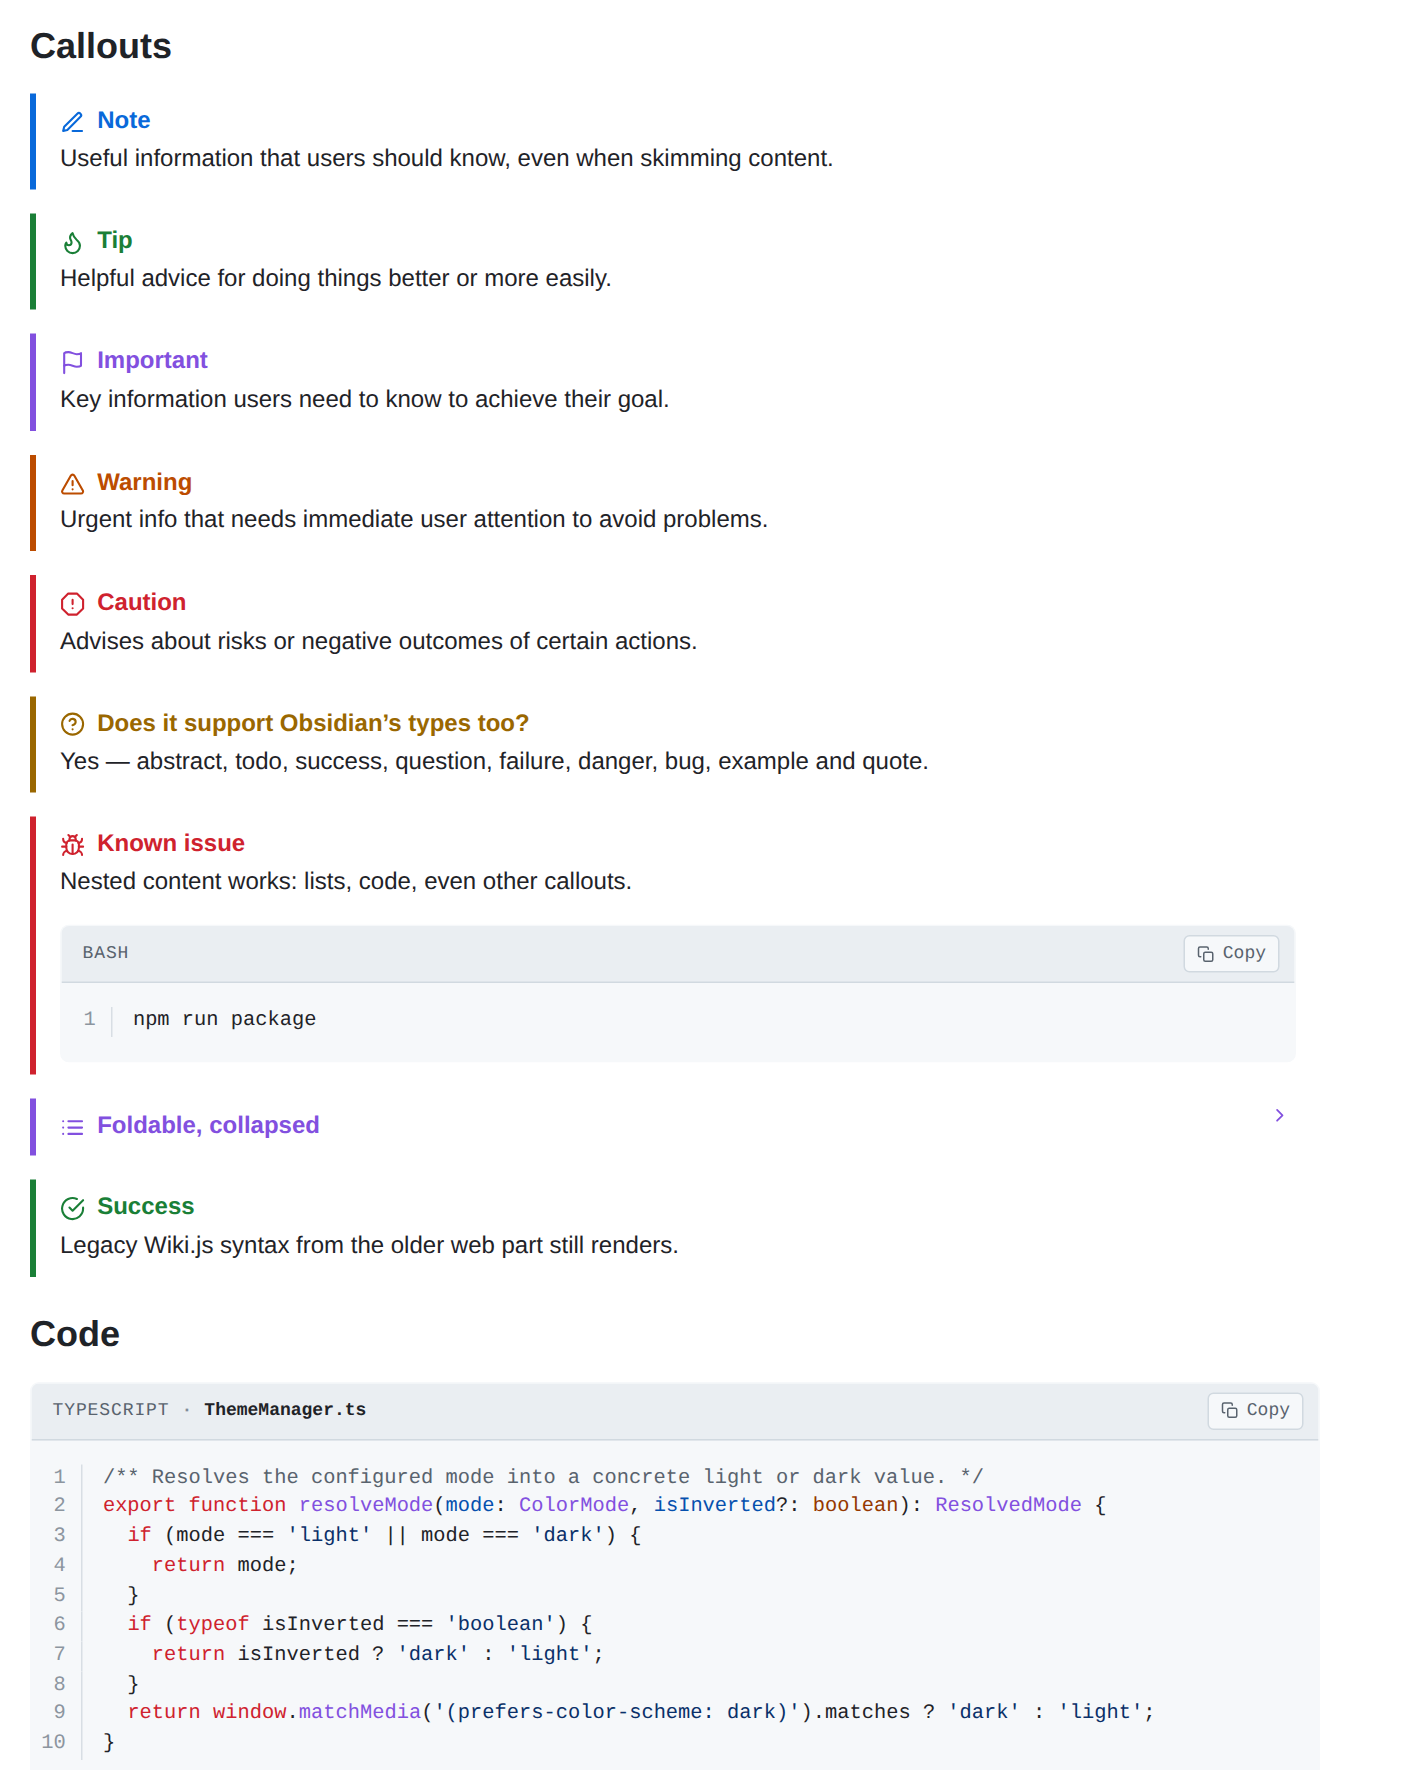
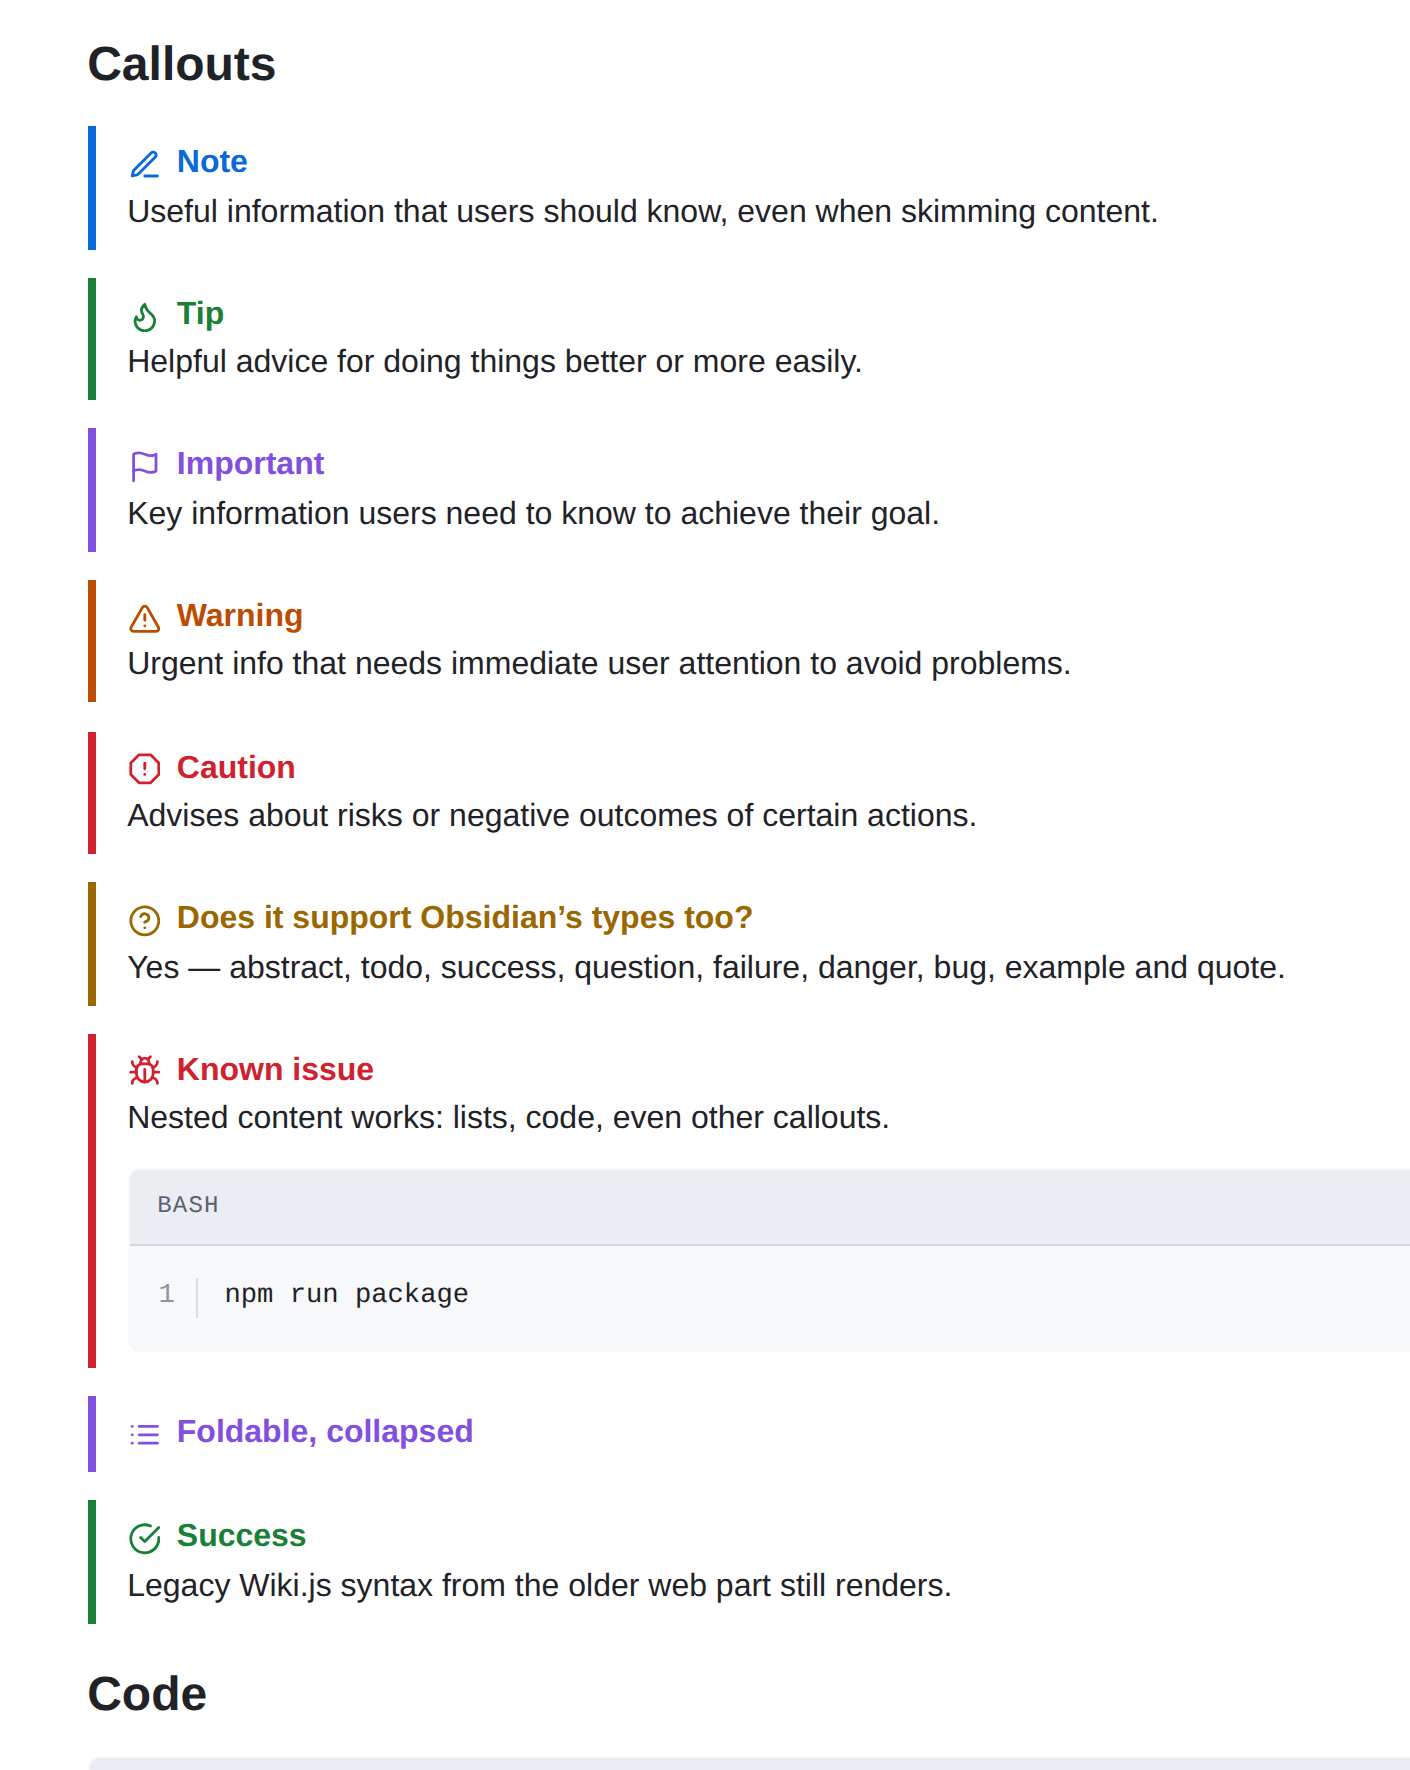
Refresh the README screenshots, and the README (#19)
Screenshots regenerated by the new scripts/build-screenshots.js, without the
white strip the hand-made dark shots carried. README checked against the code:
the install section no longer leads with a release that does not exist, the
gutter is no longer described as always sticky, and the commands, layout and
defaults are current.

diff --git a/scripts/build-screenshots.js b/scripts/build-screenshots.js
@@ -1,0 +1,127 @@
+/*
+ * Regenerates the theme screenshots in docs/images/.
+ *
+ *   node scripts/build-screenshots.js [--out <directory>]
+ *
+ * Each shot is the kitchen sink document rendered by the web part's own
+ * pipeline and stylesheets - the same build the docs site publishes - so the
+ * README shows what a SharePoint page actually shows rather than a mock-up.
+ *
+ * The capture covers the callouts and a code block, the two things the themes
+ * differ on most. The demo chrome is hidden and the padding moves onto
+ * .ink-root, which paints the theme background: anything outside it would be
+ * the page's own white, which is what put a white strip down the left of the
+ * dark shots before.
+ *
+ * Needs Playwright:
+ *   npm install --no-save playwright && npx playwright install chromium
+ */
+const fs = require('fs');
+const path = require('path');
+const { execFileSync } = require('child_process');
+
+let chromium;
+try {
+  chromium = require('playwright').chromium;
+} catch (error) {
+  console.error('Playwright is not installed. Run:\n  npm install --no-save playwright && npx playwright install chromium');
+  process.exit(1);
+}
+
+const root = path.join(__dirname, '..');
+const args = process.argv.slice(2);
+const outIndex = args.indexOf('--out');
+const outDir = path.resolve(outIndex === -1 ? path.join(root, 'docs', 'images') : args[outIndex + 1]);
+const buildDir = path.join(root, 'temp', 'screenshots');
+
+const THEMES = ['github', 'obsidian', 'vscode'];
+const MODES = ['light', 'dark'];
+const WIDTH = 705;
+const HEIGHT = 885;
+/* Where the shot starts: the heading whose section shows the callouts. */
+const ANCHOR = 'Callouts';
+
+function build() {
+  execFileSync(
+    process.execPath,
+    [path.join(root, 'demo', 'build-demo.js'), path.join(root, 'samples', 'kitchen-sink.md'),
+      '--out', buildDir],
+    { stdio: 'inherit', cwd: root }
+  );
+}
+
+async function capture() {
+  const browser = await chromium.launch(
+    process.env.PLAYWRIGHT_CHROMIUM ? { executablePath: process.env.PLAYWRIGHT_CHROMIUM } : {}
+  );
+  const page = await browser.newPage({
+    viewport: { width: WIDTH, height: HEIGHT },
+    deviceScaleFactor: 2
+  });
+  await page.goto('file://' + path.join(buildDir, 'index.html'));
+  await page.waitForLoadState('networkidle');
+
+  /* The demo's own chrome is not part of the web part. */
+  await page.addStyleTag({
+    content: `.demo-bar { display: none !important; }
+      .demo-stage { padding: 0 !important; }
+      body { margin: 0; }
+      .ink-root { padding: 18px 22px; }`
+  });
+  /* The controls are set through their own change events rather than clicked:
+     the bar they live in is hidden for the capture, and a hidden control
+     cannot be operated. */
+  await page.evaluate(() => {
+    window.setControl = (id, value) => {
+      const el = document.getElementById(id);
+      el.value = value;
+      el.dispatchEvent(new Event('change', { bubbles: true }));
+    };
+  });
+  await page.evaluate(() => window.setControl('toc', 'off'));
+
+  fs.mkdirSync(outDir, { recursive: true });
+  const written = [];
+  for (const theme of THEMES) {
+    for (const mode of MODES) {
+      await page.evaluate(([t, m]) => {
+        window.setControl('theme', t);
+        window.setControl('mode', m);
+      }, [theme, mode]);
+      /* The page paints the surface behind the web part, so it has to follow
+         the theme too - otherwise the shot picks up white at the edges. */
+      const surface = await page.evaluate(() => {
+        const el = document.getElementById('root');
+        const bg = getComputedStyle(el).backgroundColor;
+        document.body.style.background = bg;
+        return bg;
+      });
+      if (/rgba\(0, 0, 0, 0\)|transparent/.test(surface)) {
+        throw new Error(`${theme}/${mode}: the theme paints no background, so the shot would show the page behind it`);
+      }
+      await page.waitForTimeout(700);            // diagrams re-render on theme change
+      await page.evaluate((text) => {
+        const heading = [...document.querySelectorAll('.ink-content h2')]
+          .find((h) => h.textContent.indexOf(text) !== -1);
+        if (!heading) { throw new Error('no heading matching ' + text); }
+        window.scrollTo(0, heading.getBoundingClientRect().top + window.scrollY - 18);
+      }, ANCHOR);
+      await page.waitForTimeout(150);
+      const file = path.join(outDir, `${theme}-${mode}.png`);
+      await page.screenshot({ path: file });
+      written.push(file);
+    }
+  }
+  await browser.close();
+  return written;
+}
+
+build();
+capture().then((written) => {
+  written.forEach((file) => {
+    console.log(path.relative(root, file).padEnd(30), String(fs.statSync(file).size).padStart(7), 'bytes');
+  });
+}).catch((error) => {
+  console.error(error.message);
+  process.exit(1);
+});

diff --git a/README.md b/README.md
@@ -26,7 +26,7 @@ actually written in. The code here is written from scratch.
 |---|---|---|
 | Code block background | Fixed near-black `#212121` in every theme, plus a text shadow and an inset black glow | Theme surface colour, no shadow, no glow |
 | Syntax colours | One highlight.js stylesheet (`atom-one-dark`), whatever the page theme was | Per-theme token colours — Primer, Obsidian's Prism mapping, Dark+/Light+ |
-| Line numbers | Absolutely positioned, overlapping long lines, copied along with the code | A sticky gutter column drawn with CSS counters, never copied |
+| Line numbers | Absolutely positioned, overlapping long lines, copied along with the code | A gutter column drawn with CSS counters, never copied, and never overlapped by the code |
 | Callouts | Four Wiki.js classes (`{.is-info}`) | GitHub alerts, all 15 Obsidian callout types with foldable support, and the old Wiki.js classes still work |
 | Dark mode | An orange `#e65100` fill behind warning text | Tinted panels from the theme palette, every combination checked for contrast |
 | Theme | Light / dark | 3 themes × light/dark/follow-the-page, plus width, spacing, text size |
@@ -55,6 +55,10 @@ syntax palette — not just a different set of colours.
 | ![VS Code light](docs/images/vscode-light.png) | ![VS Code dark](docs/images/vscode-dark.png) |
 
 *(GitHub, Obsidian and VS Code, top to bottom — the same document in each.)*
+
+Those are generated by `npm run screenshots`, which renders the kitchen sink
+document through the web part's own pipeline and stylesheets, so they cannot
+show something the code no longer does.
 
 Readers can be allowed to switch theme themselves (**Let readers switch theme**);
 their choice is remembered per web part in their own browser.
@@ -89,7 +93,8 @@ Three syntaxes, one rendering:
 - Optional header showing the language and, with ` ```ts title="app.ts" `, a
   filename.
 - Copy button that copies the source — never the line numbers.
-- Optional line numbers in a sticky gutter that stays put while the code scrolls.
+- Optional line numbers in a gutter that stays put while a long line scrolls
+  under it — and that wrapped lines indent past rather than run under.
 - Soft wrap or horizontal scroll, whichever you configure.
 - Diff blocks tint whole lines so `+` and `-` read at a glance.
 - Per-block overrides on the fence: ` ```python wrap `, `nowrap`, `numbers`,
@@ -105,18 +110,20 @@ KaTeX math.
 
 ## Install
 
-The quickest route is a released package: download the `.sppkg` from the
-[latest release](../../releases/latest), upload it to your tenant App Catalog,
-choose **Enable this app and add it to all sites** (or add it per site), then
-add **Markstrata Markdown** to a page from the Content group of the web part
-picker.
-
-To build it yourself you need Node.js 22.x:
+Build the package — you need Node.js 22.x:
 
 ```bash
 npm install
 npm run package          # gulp bundle --ship && gulp package-solution --ship
 ```
+
+That writes `sharepoint/solution/markstrata.sppkg`. Upload it to your
+tenant App Catalog, choose **Enable this app and add it to all sites** (or add
+it per site), then add **Markstrata Markdown** to a page from the Content group of
+the web part picker.
+
+Once a version is tagged, the same `.sppkg` is attached to the
+[latest release](../../releases/latest) and you can skip the build.
 
 For local development against the hosted workbench:
 
@@ -162,6 +169,10 @@ line numbers, wrapping, code text size).
 **Features** — table of contents (left sidebar, right sidebar, above the
 content, or off) and its depth, heading anchors, Mermaid, math, and raw HTML
 (off by default).
+
+A web part you have just added starts on the **VS Code** theme in light mode,
+comfortable width, compact spacing, contents above the content, and line
+numbers on. Every one of those is a setting, not a decision you are stuck with.
 
 ### Table of contents
 
@@ -228,10 +239,20 @@ node demo/build-demo.js path/to/your.md
 
 ```bash
 npm run lint           # eslint, zero warnings allowed
-npm test               # unit tests: markdown pipeline, code blocks, theme contract
+npm test               # unit tests: markdown, code blocks, theme contract, brand assets
 npm run demo           # static preview of every theme
 npm run harness:drive  # run the renderer classes in a real browser
+npm run site           # the documentation site
+npm run brand          # regenerate the brand assets from the logo master
+npm run screenshots    # regenerate the theme screenshots in docs/images/
 npm run package        # the .sppkg
+```
+
+`harness:drive`, `brand` and `screenshots` drive a real browser, so they need
+Playwright, which is not a dependency of the package:
+
+```bash
+npm install --no-save playwright && npx playwright install chromium
 ```
 
 The tests cover the parts that have no SharePoint dependency — the markdown
@@ -268,8 +289,11 @@ src/webparts/markstrata/
 tests/                            unit tests (node --test)
 samples/                          welcome + kitchen-sink markdown
 demo/build-demo.js                static theme preview builder
+harness/                          the renderer classes driven in a real browser
 assets/                           logo master, generated brand assets, brand.md
-scripts/                          brand assets, version stamping, release notes, loc strings
+docs/                             site home page, generated theme screenshots
+scripts/                          site, brand assets, screenshots, version stamping,
+                                  release notes, loc strings
 .github/workflows/                CI and release pipelines
 ```
 

diff --git a/CHANGELOG.md b/CHANGELOG.md
@@ -7,6 +7,13 @@ the same number with a fourth part appended (1.2.0 -> 1.2.0.0), stamped by
 
 ## Unreleased
 
+- Regenerated the theme screenshots, and added `npm run screenshots` to build
+  them. The dark ones carried a white strip down the left edge: the capture
+  included the page behind the web part rather than the theme surface. The
+  README also stopped claiming the line-number gutter is always sticky (it is
+  not, once a line wraps), and no longer leads with a release download - there
+  is no release tagged yet, so that link was a 404.
+
 - A brand asset set in `assets/`, cut from the logo master (`assets/mark.svg`)
   by `npm run brand`: the mark on its own, the stacked and horizontal lockups,
   the wordmark, single-colour and dark-surface variants, the favicon and app
